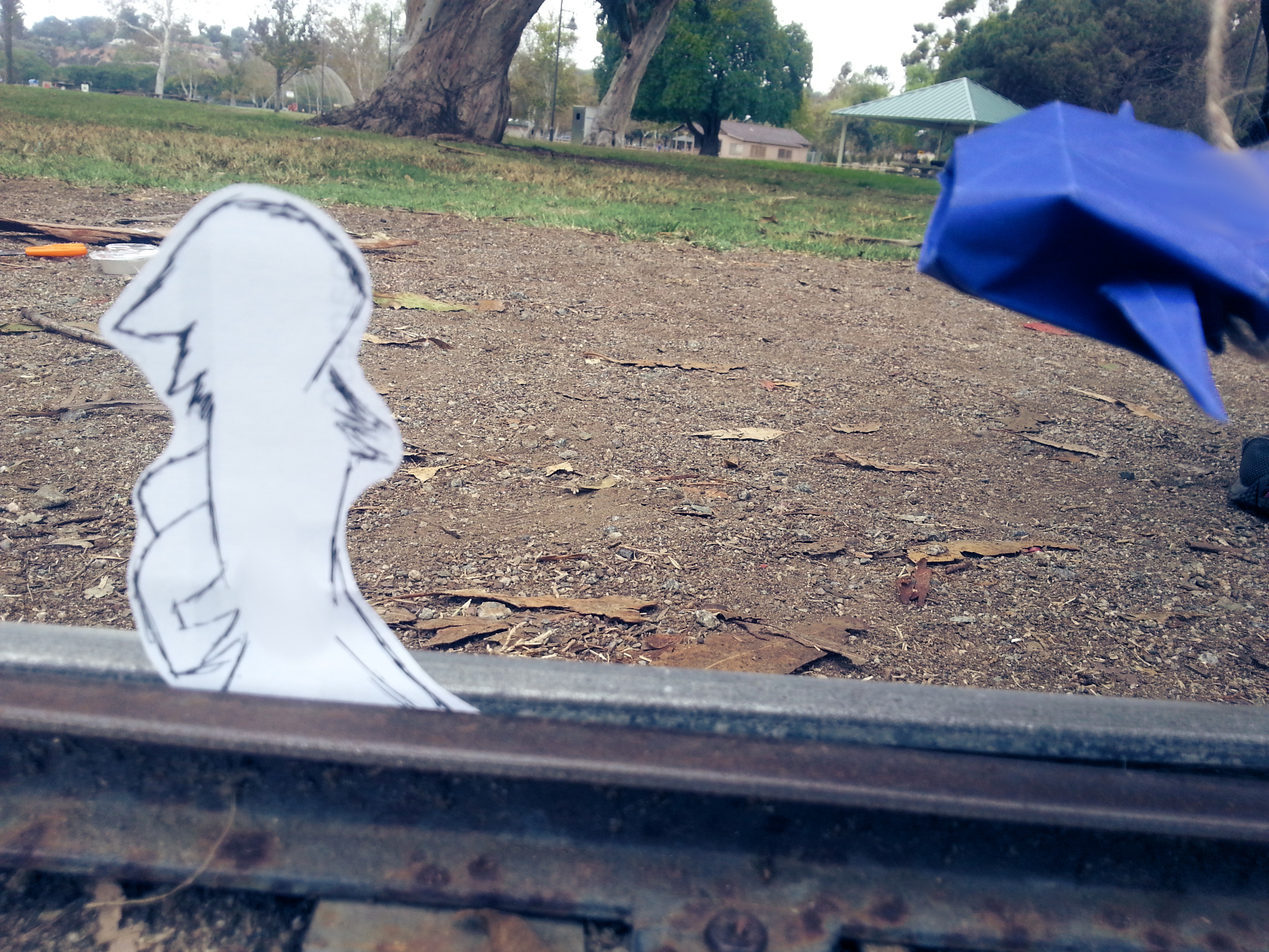
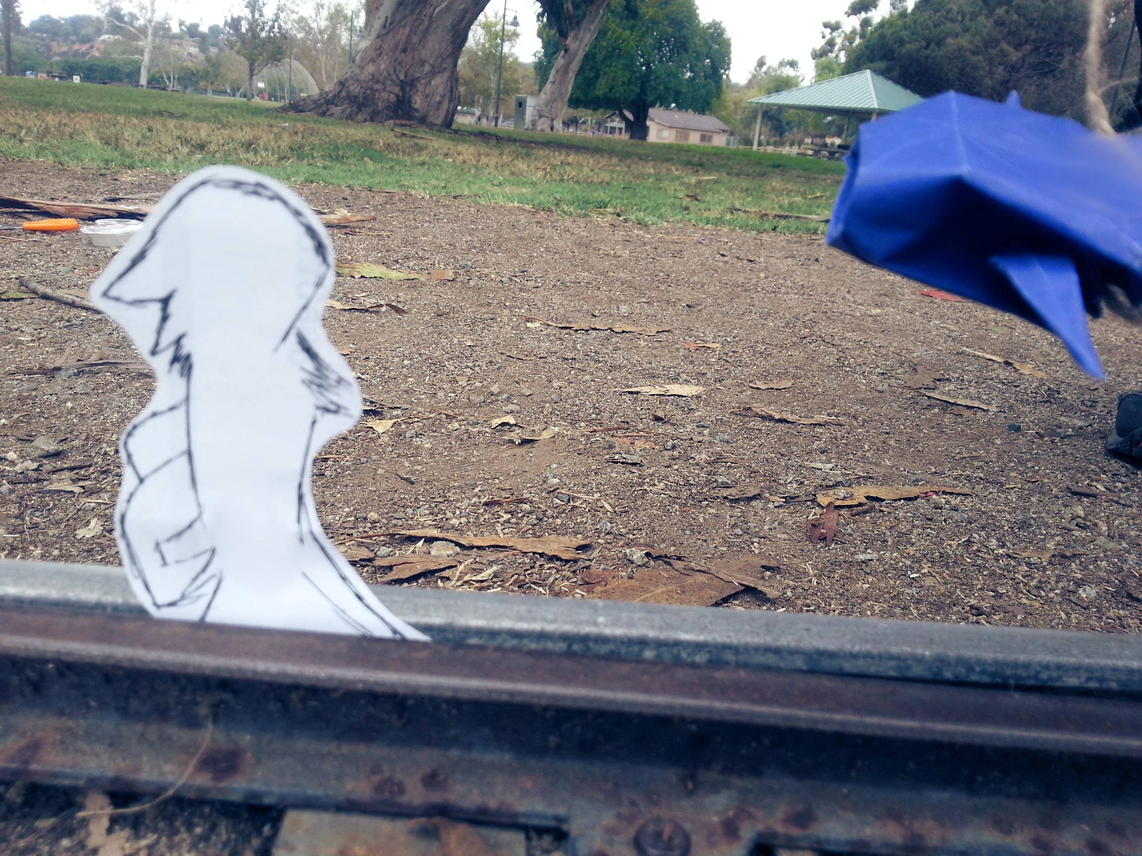
adjust image sizes

diff --git a/README.md b/README.md
@@ -1,0 +1,2 @@
+Created by Allan Asis
+March 16 2016
